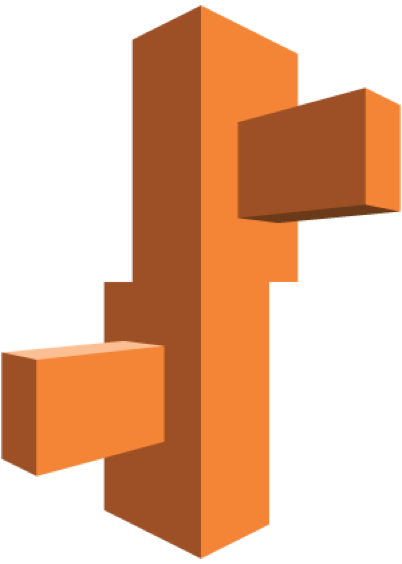
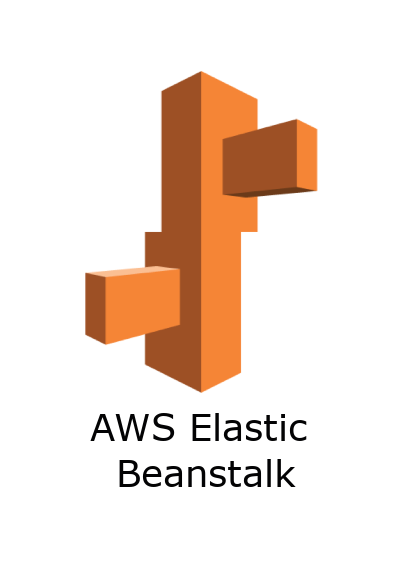
update drops 4

diff --git a/_posts/2021-03-22-ml-drops-4.md b/_posts/2021-03-22-ml-drops-4.md
@@ -19,7 +19,7 @@ Durante a próxima sessão vamos entender quais facilidades o Beanstalk traz par
 
 As facilidades mencionadas nas linhas acima, se dão ao fato de que o desenvolvedor enquanto está utilizando-se do Beanstalk, preocupa-se com o que sabe fazer de melhor, que é **o código**.
 
-<p style="text-align: center"><img src="https://i.imgur.com/hg2SwGY.png" width="200" height="200"></p>
+<p style="text-align: center"><img src="https://i.imgur.com/ExJbyp6.png" width="300" height="400"></p>
 
 Uma vez que o código de sua aplicação esteja finalizado do ponto de vista técnico, começa então o verdadeiro trabalho do Beanstalk.
 
